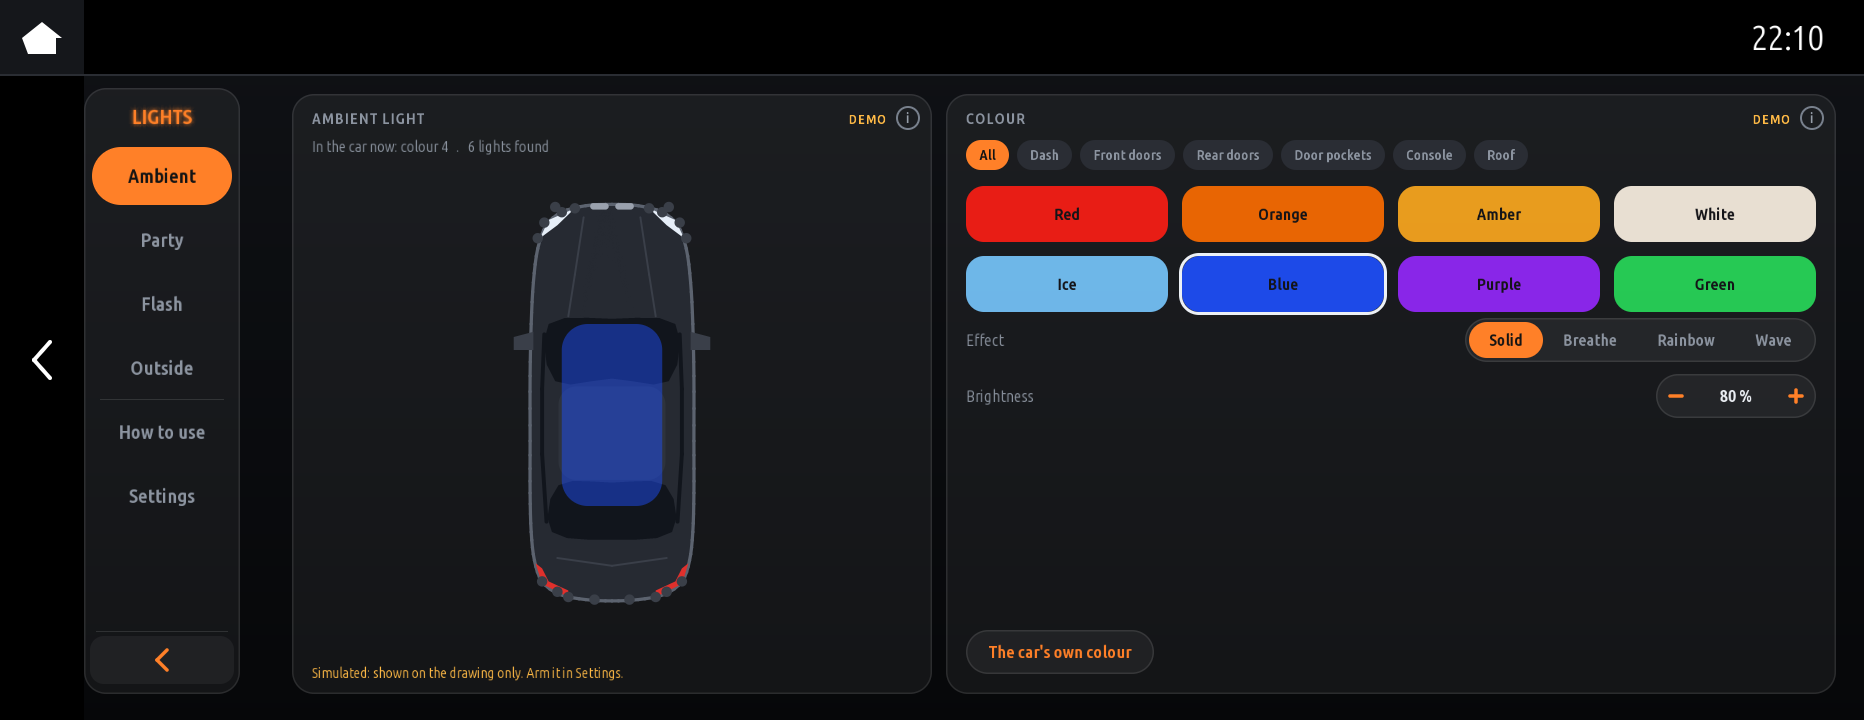
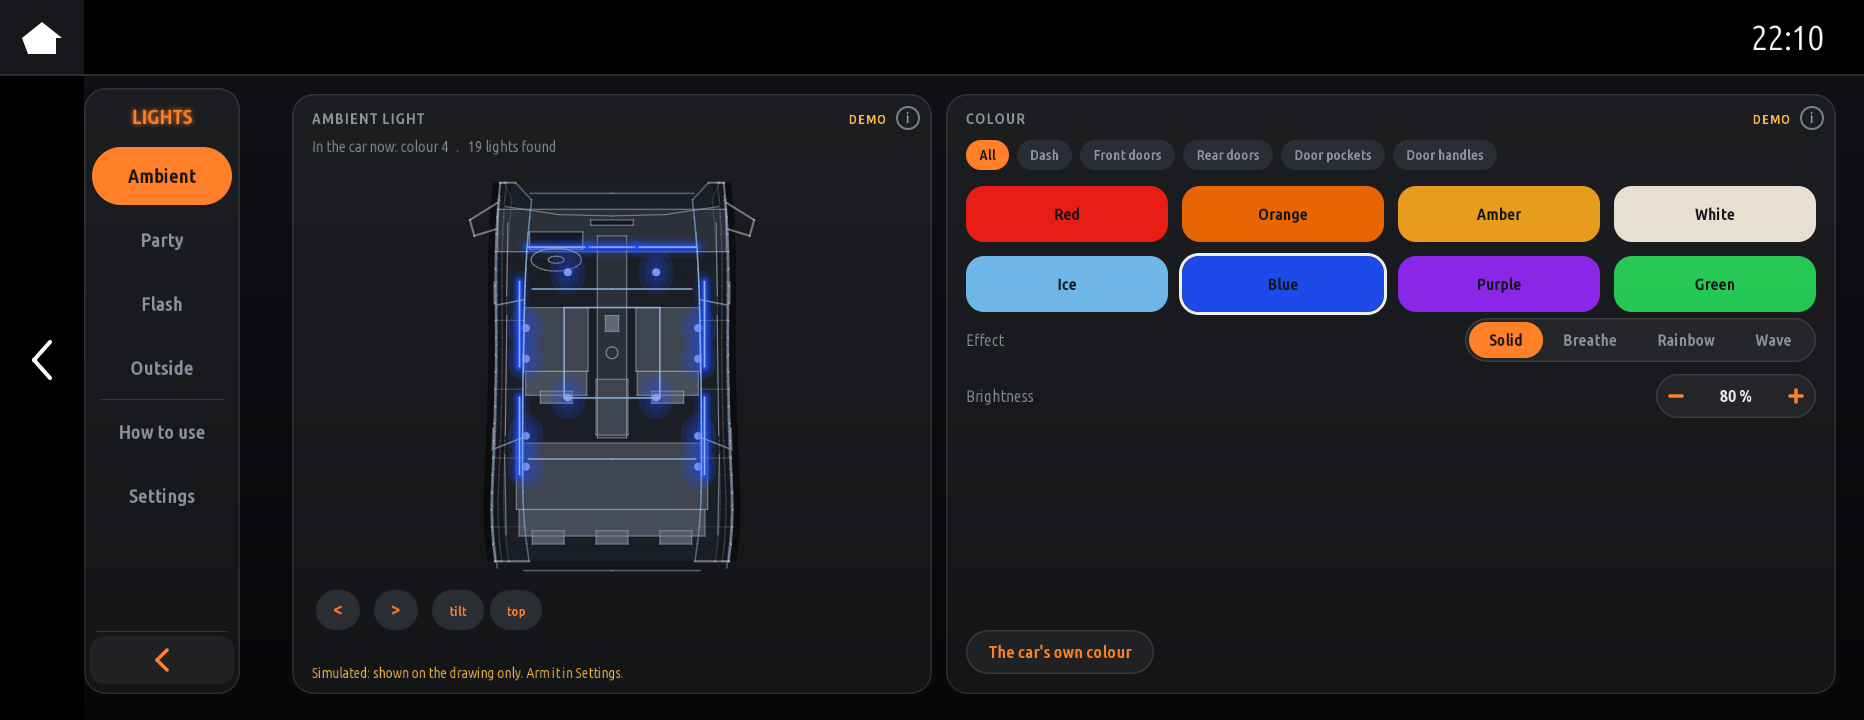
Lights 0.3: the cabin turnable with its lights, open door red
Ambient draws the cabin seen through (Ambient config's carview, MIT), every ambient
light at its place in the colour it shows, a region's own colour included; four
buttons turn it left and right, tilt it back and put it straight above again.
Open door red (Settings, on by default, armed only): the lights on an open door
blink red until it shuts, as the car's own warning does.

Changed region(s): [[0.1556, 0.2444, 0.4045, 0.8861], [0.7468, 0.2139, 0.809, 0.2444], [0.2489, 0.1833, 0.3112, 0.2139]]

diff --git a/apps/p96_lights/carview.js b/apps/p96_lights/carview.js
@@ -1,0 +1,192 @@
+// From idrive7-apps, apps/ambient_config/carview.js (MIT: Copyright (c) 2026 cauliflowermossgrape and contributors). See NOTICE.
+'use strict';
+/**
+ * carview.js - the car as a see-through line drawing after a G20 saloon, nose up, seen from straight above or tilted
+ * (a finger drags it: pitch leans the view back over the boot, roll turns it about its length to show a side), with its
+ * ambient lights glowing inside at their places. Only the cabin: from the windscreen's foot to the rear window's, with
+ * its dash, steering wheel, console, seats and door cards, so the lights' places read.
+ *
+ *   drawCarView(cv, t, box, lights, colourOf, opts)
+ *     box       { x, y, w, h }: the car fits its height, centred
+ *     lights    [{ part, x, y, x2, y2, fault }] (lin.js), x 0..1 across from the driver's side, y 0..1 from the dash
+ *     colourOf  (light) -> { rgb, bright } | null (null: the car's own colour, drawn dim grey)
+ *     opts      { rhd (the driver on the right), pitch (0 straight above .. MAX_PITCH, degrees), roll (-MAX_ROLL .. MAX_ROLL) }
+ *
+ * The car in metres: x forward, y to the left, z up, the middle at 0. Lines nearer the eye are brighter.
+ */
+const L = 2.3, W = 0.92;
+const MAX_PITCH = 55, MAX_ROLL = 40;
+
+// the plan's half width along the car (v = x / L: 1 nose .. -1 tail): a round nose, a slim waist at the doors,
+// the rear haunches a little wider, a squarer tail
+const plan = (x) => {
+    const v = x / L, p = v > 0 ? 3.2 : 5;
+    const base = Math.pow(Math.max(0, 1 - Math.pow(Math.abs(v), p)), 1 / p);
+    return W * base * (0.95 + 0.03 * Math.exp(-Math.pow((x + 1.25) / 0.45, 2)) - 0.015 * Math.exp(-Math.pow((x - 0.1) / 0.6, 2)) + 0.02 * (v > 0.6 ? 0 : 1));
+};
+// the side profile: the top of the body (a short bonnet, the windscreen, the roof, the fastback rear window, a short boot)
+const top = (x) => {
+    if (x > 2.2) return 0.74 - (x - 2.2) * 2.2;
+    if (x > 1.25) return 0.74 + 0.2 * (2.2 - x) / 0.95;
+    if (x > 0.5) return 0.94 + 0.46 * Math.sin((1.25 - x) / 0.75 * Math.PI / 2);
+    if (x > -0.75) return 1.4 - 0.02 * (0.5 - x) / 1.25;
+    if (x > -1.65) return 1.38 - 0.4 * Math.sin((-0.75 - x) / 0.9 * Math.PI / 2);
+    if (x > -2.2) return 0.98 - 0.02 * (-1.65 - x) / 0.55;
+    return 0.96 - (-2.2 - x) * 2.4;
+};
+const belt = (x) => Math.min(top(x) - 0.01, 0.9 + 0.04 * (L - x) / (2 * L));
+const inCabin = (x) => x < 1.25 && x > -1.65;
+// the roof's half width (the glass's top edge), the side glass's foot, over the cabin
+const roofW = (x) => plan(x) * (0.7 + 0.06 * Math.cos(((x + 0.2) / 1.45) * Math.PI / 2));
+
+/* The section across the car at x, from the left sill over the top to the right sill: [y, z]. */
+function section(x) {
+    const hw = plan(x), b = belt(x), t = top(x), tw = inCabin(x) ? Math.min(hw * 0.9, roofW(x)) : hw * 0.86;
+    const mid = (b + t) / 2;
+    return [[hw * 0.94, 0.28], [hw, 0.5], [hw * 0.995, b], [(hw + tw) / 2 * 1.03, mid], [tw, t], [tw * 0.4, t + 0.02], [0, t + 0.025],
+        [-tw * 0.4, t + 0.02], [-tw, t], [-(hw + tw) / 2 * 1.03, mid], [-hw * 0.995, b], [-hw, 0.5], [-hw * 0.94, 0.28]];
+}
+
+/* The cabin's ends: the windscreen's foot (the dash) and the rear window's; the bonnet and the boot are left out. */
+const XF = 1.3, XR = -1.55, XM = (XF + XR) / 2;
+const SEATS = [0.42, -0.42];                   // the front seats' middles across
+
+/** The cabin's lines: [[points], kind]. Its shell (body, glass) and what is inside (kind 'inside'). */
+function carLines() {
+    const out = [];
+    const N = 22, ST = [];
+    for (let i = 0; i <= N; i++) ST.push(XF - (XF - XR) * i / N);
+    const secs = ST.map((x) => section(x).map(([y, z]) => [x, y, z]));
+    for (let k = 0; k < secs[0].length; k++) {
+        // (the roof's middle lines left out: they would cross what is inside)
+        if (k >= 5 && k <= 7) continue;
+        const kind = k === 0 || k === 12 ? 'sill' : k === 2 || k === 10 ? 'body' : k === 4 || k === 8 ? 'glass' : 'mesh';
+        out.push([secs.map((sc) => sc[k]), kind]);
+    }
+    secs.forEach((pts, i) => { if (i % 4 === 0 && i > 0 && i < N) { out.push([pts.slice(0, 5), 'mesh']); out.push([pts.slice(8), 'mesh']); } });
+    out.push([secs[0].slice(0, 5), 'body'], [secs[0].slice(8), 'body'], [secs[N].slice(0, 5), 'body'], [secs[N].slice(8), 'body']);   // the cut ends, up to the glass
+    [1, -1].forEach((s) => {
+        const xs = []; for (let i = 0; i <= 30; i++) xs.push(1.2 - 2.8 * i / 30);
+        out.push([xs.map((x) => [x, s * plan(x) * 0.985, belt(x) + 0.03]), 'glass']);
+        out.push([[[0.42, s * roofW(0.42), top(0.42) - 0.01], [0.38, s * plan(0.38) * 0.98, belt(0.38) + 0.03]], 'glass']);   // B pillar
+        out.push([[[-0.62, s * roofW(-0.62), top(-0.62) - 0.01], [-0.7, s * plan(-0.7) * 0.98, belt(-0.7) + 0.03]], 'glass']);
+        [[1.15, 0.3], [0.05, 0.3], [-1.1, 0.32]].forEach(([x, z]) => out.push([[[x, s * plan(x) * 0.95, z], [x - 0.03, s * plan(x - 0.03), belt(x - 0.03)]], 'mesh']));
+        [0.55, -0.55].forEach((x) => out.push([[[x, s * plan(x) * 1.005, 0.82], [x - 0.16, s * plan(x - 0.16) * 1.005, 0.82]], 'body']));
+        out.push([[[1.15, s * plan(1.15), 0.96], [1.02, s * (plan(1.02) + 0.2), 0.98], [0.9, s * (plan(0.9) + 0.16), 0.98], [0.95, s * plan(0.95), 0.96]], 'body']);
+        // the door cards inside: the armrest along each door, its pull handle
+        out.push([[[1.0, s * plan(1.0) * 0.9, 0.66], [0.45, s * plan(0.45) * 0.9, 0.68]], 'inside']);
+        out.push([[[0.3, s * plan(0.3) * 0.9, 0.68], [-0.6, s * plan(-0.6) * 0.9, 0.68]], 'inside']);
+        out.push([[[-0.75, s * plan(-0.75) * 0.9, 0.68], [-1.35, s * plan(-1.35) * 0.88, 0.66]], 'inside']);
+    });
+    const ac = (x, z, k, kind) => out.push([[[x, k * plan(x), z], [x, 0, z + 0.03], [x, -k * plan(x), z]], kind]);
+    ac(1.22, top(1.22) + 0.01, 0.72, 'glass'); ac(0.5, top(0.5) - 0.01, 0.68, 'glass'); ac(-0.78, top(-0.78) - 0.01, 0.7, 'glass'); ac(-1.62, top(-1.62) + 0.01, 0.76, 'glass');
+    out.push([[[0.36, 0.36, 1.43], [0.36, -0.36, 1.43], [-0.32, -0.36, 1.42], [-0.32, 0.36, 1.42], [0.36, 0.36, 1.43]], 'glass']);
+    INSIDE.forEach(([pts]) => out.push([pts.concat([pts[0]]), 'inside']));
+    // the dash's top edge, the steering wheel and its hub, the iDrive knob
+    out.push([[[1.12, 0.8, 0.9], [1.06, 0.4, 0.93], [1.05, 0, 0.94], [1.06, -0.4, 0.93], [1.12, -0.8, 0.9]], 'inside']);
+    const ring = (cx2, cy2, cz, r, n, flat) => { const pts = []; for (let a = 0; a <= n; a++) { const q = a / n * Math.PI * 2; pts.push(flat ? [cx2 + r * Math.cos(q), cy2 + r * Math.sin(q), cz] : [cx2 + r * 0.45 * Math.sin(q), cy2 + r * Math.cos(q), cz + r * 0.9 * Math.sin(q)]); } return pts; };
+    out.push([ring(0.72, SEATS[0], 0.86, 0.19, 28), 'inside'], [ring(0.72, SEATS[0], 0.86, 0.06, 14), 'inside']);
+    out.push([ring(0.02, 0, 0.66, 0.045, 14, true), 'inside']);
+    return out;
+}
+/* What is inside, as flat shapes (filled, then outlined): [points, fill]. Seats: cushion, back, headrest. */
+const INSIDE = (() => {
+    const h = (x0, x1, y0, y1, z) => [[x0, y0, z], [x0, y1, z], [x1, y1, z], [x1, y0, z]];
+    const back = (x0, x1, y0, y1, z0, z1) => [[x0, y0, z0], [x0, y1, z0], [x1, y1, z1], [x1, y0, z1]];
+    const SEAT = [62, 68, 80, 255], BACK = [72, 78, 92, 255], HEAD = [82, 88, 102, 255], TRIM = [44, 48, 57, 255];
+    const out = [];
+    out.push([h(1.1, 0.78, 0.86, -0.86, 0.9), TRIM]);                                     // the dash's top
+    out.push([[[0.98, 0.16, 0.94], [0.98, -0.16, 0.94], [1.02, -0.16, 1.1], [1.02, 0.16, 1.1]], [20, 24, 30, 255]]);   // the centre screen
+    out.push([h(0.93, 0.8, SEATS[0] + 0.2, SEATS[0] - 0.2, 0.97), [20, 24, 30, 255]]);  // the instruments' hood
+    out.push([h(0.9, -0.62, 0.11, -0.11, 0.6), TRIM]);                                    // the console
+    out.push([h(-0.18, -0.6, 0.12, -0.12, 0.7), SEAT]);                                    // its armrest
+    out.push([h(0.3, 0.18, 0.05, -0.05, 0.64), [96, 104, 120, 255]]);                    // the gear selector
+    SEATS.forEach((y) => {
+        out.push([h(0.36, -0.12, y + 0.24, y - 0.24, 0.55), SEAT]);
+        out.push([back(-0.12, -0.3, y + 0.23, y - 0.23, 0.6, 1.15), BACK]);
+        out.push([h(-0.27, -0.36, y + 0.12, y - 0.12, 1.3), HEAD]);
+    });
+    out.push([h(-0.66, -1.16, 0.72, -0.72, 0.55), SEAT]);
+    out.push([back(-1.16, -1.36, 0.7, -0.7, 0.58, 1.05), BACK]);
+    [0.48, 0, -0.48].forEach((y) => out.push([h(-1.32, -1.42, y + 0.12, y - 0.12, 1.12), HEAD]));
+    return out;
+})();
+const LINES = carLines();
+
+/** The view: a point -> [screen x, screen y (down), depth (larger: nearer the eye)], before fitting. */
+function viewer(pitchDeg, rollDeg) {
+    const p = pitchDeg * Math.PI / 180, r = rollDeg * Math.PI / 180, cp = Math.cos(p), sp = Math.sin(p), cr = Math.cos(r), sr = Math.sin(r);
+    return ([x, y, z]) => {
+        const y1 = y * cr - z * sr, z1 = y * sr + z * cr;           // rolled about its length
+        return [-y1, -(x * cp + z1 * sp), z1 * cp - x * sp];          // leaned back over the boot
+    };
+}
+
+/** The cabin's light at fx across, fy from the dash, in metres: upper ones at the dash and the doors' tops, lower ones at the floor. */
+function lightPoint(fx, fy, part) {
+    return [1.25 - fy * 2.9, (0.5 - fx) * 2 * W * 0.86, part === 'upper' ? (fy < 0.2 ? 0.98 : 0.92) : 0.38];
+}
+
+const glow = (rgb, bright, a) => { const f = 0.25 + 0.75 * Math.max(0, Math.min(100, bright)) / 100; return [rgb[0], rgb[1], rgb[2], Math.round(255 * a * f)]; };
+const COL = { inside: [140, 148, 160], sill: [210, 216, 224], body: [236, 240, 246], edge: [236, 240, 246], mesh: [150, 158, 170], glass: [140, 182, 225], wheel: [190, 196, 204], lamp: [255, 255, 255], tail: [255, 50, 60] };
+const WID = { inside: 1.2, sill: 1.6, body: 2, edge: 1.8, mesh: 1, glass: 1.6, wheel: 1.6, lamp: 3, tail: 3 };
+
+function drawCarView(cv, t, box, lights, colourOf, opts) {
+    const o = opts || {};
+    const pitch = Math.max(0, Math.min(MAX_PITCH, o.pitch || 0)), roll = Math.max(-MAX_ROLL, Math.min(MAX_ROLL, o.roll || 0));
+    const pr = viewer(pitch, o.rhd ? -roll : roll);
+    // a scale that stays as the view turns: the car's length fits the box's height from straight above
+    const k = Math.min(box.h / ((XF - XR) * 1.12), box.w / (2 * W * 1.45)), cx = box.x + box.w / 2, cy = box.y + box.h / 2;
+    const S = (p) => { const q = pr([p[0] - XM, p[1], p[2]]); return [cx + (o.rhd ? -q[0] : q[0]) * k, cy + (q[1] + 0.55 * Math.sin(pitch * Math.PI / 180)) * k, q[2]]; };
+    // its shadow on the ground, then the body's mass: the plan at the belt filled dark
+    const strip = (f, z, c) => { for (let i = 0; i < 24; i++) { const xa = XF - (XF - XR) * i / 24, xb = XF - (XF - XR) * (i + 1) / 24; cv.quad([S([xa, f(xa), z]), S([xa, -f(xa), z]), S([xb, -f(xb), z]), S([xb, f(xb), z])].map((q) => [q[0], q[1]]), c); } };
+    strip((x) => plan(x) * 1.06, 0, [0, 0, 0, 120]);
+    strip(plan, 0.5, [22, 25, 30, 235]);
+    // the cabin's floor a shade lighter, what is inside filled, so the lights' places read against them
+    strip((x) => plan(x) * 0.9, 0.1, [27, 30, 36, 255]);
+    INSIDE.forEach(([pts, c]) => cv.quad(pts.map((q) => { const r = S(q); return [r[0], r[1]]; }), c));
+    const segs = [];
+    LINES.forEach(([pts, kind]) => { const q = pts.map(S); for (let i = 1; i < q.length; i++) segs.push([q[i - 1], q[i], kind]); });
+    let d0 = Infinity, d1 = -Infinity;
+    segs.forEach(([a, b]) => { d0 = Math.min(d0, a[2], b[2]); d1 = Math.max(d1, a[2], b[2]); });
+    segs.sort((a, b) => (a[0][2] + a[1][2]) - (b[0][2] + b[1][2]));
+    const near = (d) => (d - d0) / Math.max(1e-6, d1 - d0);
+    // the lights: an upper one a bright strip in a soft spread of its colour; a lower one a pool of light on the floor
+    // round it (where a footwell or a door pocket lights), the lamp itself a dot in the middle
+    const drawLights = () => {
+        const pool = (l, c) => {
+            const [x, y, z] = lightPoint(l.x, l.y, l.part), rgb = c.rgb, br = c.bright, r = 0.17;
+            for (let ring = 3; ring >= 1; ring--) {
+                const rr = r * ring / 3, pts = [];
+                for (let a = 0; a < 16; a++) { const q = a / 16 * Math.PI * 2; pts.push(S([x + rr * Math.cos(q), y + rr * 0.8 * Math.sin(q), 0.08])); }
+                for (let a = 1; a < 15; a++) cv.quad([pts[0], pts[a], pts[a + 1], pts[a + 1]].map((q) => [q[0], q[1]]), glow(rgb, br, 0.2));
+            }
+            return S([x, y, z]);
+        };
+        lights.forEach((l) => {
+            const c = colourOf(l), rgb = c ? c.rgb : [90, 96, 104], br = c ? c.bright : 30;
+            if (c && br <= 0) return;
+            if (l.x2 != null) {
+                const a = S(lightPoint(l.x, l.y, l.part)), b = S(lightPoint(l.x2, l.y2, l.part));
+                if (c) [[22, 0.12], [13, 0.26], [8, 0.5]].forEach(([w, al]) => cv.line(a[0], a[1], b[0], b[1], w, glow(rgb, br, al)));
+                cv.line(a[0], a[1], b[0], b[1], 4, glow(rgb, br, c ? 1 : 0.6));
+                if (c) cv.line(a[0], a[1], b[0], b[1], 1.5, glow(rgb.map((v) => Math.round(v + (255 - v) * 0.7)), br, 0.95));
+            } else {
+                const p = c ? pool(l, c) : S(lightPoint(l.x, l.y, l.part));
+                cv.circle(p[0], p[1], 4, glow(c ? rgb.map((v) => Math.round(v + (255 - v) * 0.5)) : rgb, br, c ? 1 : 0.6));
+            }
+            if (l.fault) { const p = S(lightPoint(l.x, l.y, l.part)); cv.circle(p[0], p[1], 6, t.warn || '#ffb000'); }
+        });
+    };
+    // the far lines, the lights inside, then the near lines over them (see-through)
+    let lit = false;
+    segs.forEach(([a, b, kind]) => {
+        const n = near((a[2] + b[2]) / 2);
+        if (!lit && n > 0.55) { drawLights(); lit = true; }
+        const c = COL[kind], al = kind === 'lamp' || kind === 'tail' ? 0.95 : kind === 'inside' ? 0.75 : (kind === 'mesh' ? 0.08 : 0.16) + (kind === 'mesh' ? 0.4 : 0.78) * n * n;
+        cv.line(a[0], a[1], b[0], b[1], WID[kind], [c[0], c[1], c[2], Math.round(255 * al)]);
+    });
+    if (!lit) drawLights();
+}
+
+module.exports = { drawCarView, MAX_PITCH, MAX_ROLL };

diff --git a/apps/p96_lights/main.js b/apps/p96_lights/main.js
@@ -77,7 +77,7 @@ mgu.run({
         const st = { page: 'main', tab: 0, topic: 0, settings: {}, status: 'WAIT', statusColor: 'dim', demo: false, now: t0 };
         st.report = Report.forApp(ctx);
         const presets = PR.load(path.join(ctx.dataDir, 'presets.json'));
-        const V = { region: 'all', regionColours: {}, paused: null, outsideWant: settings.get('outsideWant') || {}, live: { on: false, rows: [], note: null }, preset: 0, scene: { kind: 'solid', upper: { rgb: P.COLOURS[4][1], bright: 70 }, lower: { rgb: P.COLOURS[4][1], bright: 70 }, speed: 2 },
+        const V = { view: { pitch: 0, roll: 0 }, region: 'all', regionColours: {}, paused: null, outsideWant: settings.get('outsideWant') || {}, live: { on: false, rows: [], note: null }, preset: 0, scene: { kind: 'solid', upper: { rgb: P.COLOURS[4][1], bright: 70 }, lower: { rgb: P.COLOURS[4][1], bright: 70 }, speed: 2 },
             flash: { pattern: 'both', rate: 'normal' }, playAt: null };
 
         const sendScene = () => { if (armed()) link().then(() => { if (lights && !allowed('ambient')) { if (V.scene.own) lights.carColour(); else lights.show(V.scene); } }); };
@@ -99,6 +99,27 @@ mgu.run({
             V.regionColours = {}; V.scene = Object.assign({}, V.scene, { own: true }); V.ours = false;
             if (why) log.info('lights: stopped, ' + why);
         };
+        /*
+         * An open door: every light on that door blinks red (owner, 2026-11-27 00:40: as the car's own warning does on
+         * cars that have it), over whatever colour is on, until the door shuts. Setting Open door red; armed only.
+         */
+        const DOOR_FIELDS = { statusDoorSwitchDRD: /^Driver front door/, statusDoorSwitchPSD: /^Passenger front door/,
+            statusDoorSwitchDRDR: /^Driver rear door/, statusDoorSwitchPSDR: /^Passenger rear door/ };
+        let openDoors = [];
+        ctx.signals.watch('de.bmw.body.DoorsWindowsRoofMirrors', '1', {
+            CentralLockingSystemAndPanelStatus: (v) => {
+                const now2 = Object.keys(DOOR_FIELDS).filter((k) => v && (v[k] === 1 || /_OFFEN$/.test(String(v[k]))));
+                if (now2.join() === openDoors.join()) return;
+                const was = openDoors; openDoors = now2;
+                if (!armed() || val('doorRed') !== 'on') return;
+                link().then(() => {
+                    if (!lights) return;
+                    was.filter((k) => now2.indexOf(k) < 0).forEach((k) => lights.overlay('door|' + k, null));
+                    now2.forEach((k) => lights.overlay('door|' + k, (l) => DOOR_FIELDS[k].test((l && l.name) || ''), (ms) => ({ rgb: [255, 0, 0], bright: Math.floor(ms / 500) % 2 ? 0 : 100 })));
+                });
+            },
+        }, log).catch(() => {});
+
         /* ---------- the lamps as the car drives them now: reads only, while Lamps now is on ---------- */
         async function readLive() {
             if (!V.live.on || !armed() || !diag || st.tab !== 3) return;
@@ -123,6 +144,11 @@ mgu.run({
             set: (k, v) => { settings.set(k, v, 'user'); if (k === 'arm' && v === 'on') link(); if (k === 'arm' && v !== 'on') stopAll('disarmed'); },
             stopAll: () => stopAll('Stop all'),
             region: (k) => { V.region = k; },
+            // turning the car on the Ambient page: dr about its length (degrees), dp leaning back (-1 dp: straight above)
+            turn: (dr, dp) => {
+                V.view = { roll: Math.max(-P.MAX_ROLL, Math.min(P.MAX_ROLL, V.view.roll + dr)), pitch: dp < 0 ? 0 : Math.max(0, Math.min(P.MAX_PITCH, V.view.pitch + dp)) };
+                if (dp < 0) V.view.roll = 0;
+            },
             outside: (k, v) => { V.outsideWant = Object.assign({}, V.outsideWant, { [k]: v }); settings.set('outsideWant', V.outsideWant, 'user'); },
             live: () => { V.live.on = !V.live.on; V.live.rows = []; if (V.live.on) link(); },
             pause: () => {
@@ -178,7 +204,7 @@ mgu.run({
             return {
                 armed: armed(), moving: usingDemo() ? false : moving(), presets: presets, preset: V.preset, beat: beat, flash: V.flash,
                 ambient: { state: lights ? lights.state : null, n: lights ? lights.lights.length : 0, lights: lights ? lights.lights : [], scene: V.scene, ours: !!V.ours && armed() },
-                carAmbient: carAmbient, region: V.region, regionColours: V.regionColours, paused: V.paused, outsideWant: V.outsideWant, outside: {}, live: V.live,
+                carAmbient: carAmbient, view: V.view, region: V.region, regionColours: V.regionColours, paused: V.paused, outsideWant: V.outsideWant, outside: {}, live: V.live,
                 lamps: lamps ? { kind: lamps.kind, running: lamps.running, note: lamps.note } : { running: V.playAt != null && !armed() ? null : null },
             };
         }

diff --git a/apps/p96_lights/pages.js b/apps/p96_lights/pages.js
@@ -21,12 +21,16 @@ function ui() {
 const UI = ui();
 const E = (function () { try { return require('./garage_engine'); } catch (e) { return require('../../lib/engine'); } })();
 const PR = require('./presets');
+const { drawCarView, MAX_PITCH, MAX_ROLL } = require('./carview');
+const LIN = require('./lin');
 const C = UI.C, T = UI.CONTENT_TOP, L = UI.MARGIN, R = UI.W - UI.MARGIN;
 const lit = { literal: true };
 const TITLE = 'LIGHTS';
 const TABS = ['Ambient', 'Party', 'Flash', 'Outside'];
 
 const APP_ROWS = [
+    { key: 'doorRed', label: 'Open door red', hint: 'The lights on an open door blink red, as the car\'s own warning does', type: 'choice', default: 'on',
+        options: [['on', 'On'], ['off', 'Off']] },
     { key: 'arm', label: 'Light control', hint: 'Simulated: shown on the drawing only, nothing is sent to the car', type: 'choice', default: 'off',
         options: [['off', 'Simulated'], ['on', 'Armed']] },
 ];
@@ -120,10 +124,27 @@ function gateLine(v, what) {
 function pageAmbient(cv, v, st, t, act) {
     const lw = 640, s = (v.ambient && v.ambient.scene) || {}, up = s.upper || { rgb: COLOURS[4][1], bright: 70 };
     UI.card(cv, L, T, lw, UI.hh(), 'Ambient light', { info: INFO.ambient });
-    const k = Math.min(1.3, (UI.hh() - 90) / 320);
+    // the cabin seen through, every ambient light at its place in the colour it shows, turnable (owner, 2026-11-27
+    // 00:40: rotate the car and see where which colour is): the car's own lights when it listed them, else BMW's set
     const glow = s.kind === 'breathing' ? 0.35 + 0.65 * (0.5 - 0.5 * Math.cos(t * 1.6)) : 1;
-    const rgb = s.kind === 'rainbow' || s.kind === 'wave' ? hsv((t * 40) % 360) : up.rgb;
-    carLamps(cv, L + lw / 2, T + UI.hh() / 2 + 8, k, null, s.own ? null : [rgb[0], rgb[1], rgb[2], Math.round(150 * glow * up.bright / 100)]);
+    const shown = v.ambient && v.ambient.lights && v.ambient.lights.length ? v.ambient.lights : LIN.sample();
+    const rc = v.regionColours || {};
+    const colourOf = (light) => {
+        const own = rc[regionOf(light)];
+        if (own) return { rgb: own.rgb, bright: own.bright };
+        if (s.own) return null;
+        const rgb = s.kind === 'rainbow' || s.kind === 'wave' ? hsv((t * 40 + (light.y || 0) * 120) % 360) : up.rgb;
+        return { rgb: rgb, bright: Math.round(up.bright * glow) };
+    };
+    const view = v.view || { pitch: 0, roll: 0 };
+    drawCarView(cv, t, { x: L + 70, y: T + 66, w: lw - 140, h: UI.hh() - 176 }, shown, colourOf, view);
+    // turning: left and right about its length, back over the boot and up again
+    [['<', -1, 0], ['>', 1, 0], ['tilt', 0, 1], ['top', 0, -1]].forEach((b, i) => {
+        const bx = L + 24 + i * 58, by = T + UI.hh() - 104, w = b[0].length > 1 ? 52 : 44;
+        cv.roundRect(bx, by, w, 40, 20, '#2a2d34');
+        cv.text(b[0], bx + w / 2, by + 26, b[0].length > 1 ? 13 : 20, C.accent, { font: 'bold', align: 'center', literal: true });
+        if (cv.target) cv.target(bx - 4, by - 6, w + 8, 52, () => act.turn(b[1] * 20, b[2] * 25), 'lturn|' + i, 20);
+    });
     const g = gateLine(v, 'ambient');
     cv.text(g[0], L + 20, T + UI.hh() - 16, 14, g[1], lit);
     // what the car's own menu says now, and which lights the body controller has (read from the car)
@@ -302,4 +323,4 @@ function draw(cv, v, st, t, act) {
 const DEFAULTS = {};
 UI.DISPLAY_SETTINGS.concat(APP_ROWS, [E.DEMO_ROW]).forEach((r) => { DEFAULTS[r.key] = r.default; });
 
-module.exports = { regionOf, regionsOf, REGIONS, draw, TABS, TOPICS, APP_ROWS, PAGES, DEFAULTS, COLOURS, TITLE, carLamps, INFO, OUTSIDE };
+module.exports = { MAX_PITCH, MAX_ROLL, regionOf, regionsOf, REGIONS, draw, TABS, TOPICS, APP_ROWS, PAGES, DEFAULTS, COLOURS, TITLE, carLamps, INFO, OUTSIDE };

diff --git a/tools/lights_shots.js b/tools/lights_shots.js
@@ -29,9 +29,10 @@ function shot(name, set, t) {
     play(rec.words(), cv);
     fs.writeFileSync(path.join(out, name + '.png'), cv.png(9));
 }
-v.ambient.lights = [{ name: 'Dash line centre' }, { name: 'Driver front door line' }, { name: 'Driver rear door line' }, { name: 'Driver front door pocket' }, { name: 'Console line driver front' }, { name: 'Sunroof front left' }];
-v.carAmbient = 4; v.ambient.n = 6;
-shot('ambient', { tab: 0 }); shot('party', { tab: 1 }, 0.25); shot('flash', { tab: 2 }, 0.35);
+v.ambient.lights = require('../apps/p96_lights/lin').sample();
+v.carAmbient = 4; v.ambient.n = v.ambient.lights.length;
+shot('ambient', { tab: 0 });
+v.view = { pitch: 35, roll: -25 }; v.regionColours = { pockets: { rgb: [255, 30, 20], bright: 90 } }; shot('ambient-turned', { tab: 0 }, 1); v.view = null; v.regionColours = {}; shot('party', { tab: 1 }, 0.25); shot('flash', { tab: 2 }, 0.35);
 v.live = { on: true, rows: [['Left headlight, channel 1', '75 %', true], ['Left headlight, channel 9', '41 %', true], ['Right headlight, channel 1', '75 %', true], ['Body controller outputs on', '6', false]] };
 shot('outside', { tab: 3 });
 shot('help', { page: 'help', topic: 1 }, 1); shot('settings', { page: 'settings' });

diff --git a/apps/p96_lights/README.md b/apps/p96_lights/README.md
@@ -18,6 +18,7 @@ sequences from Paget96's Exterior Lights, PR #254). Not tried on a car as Lights
 | Page | Screenshot |
 |---|---|
 | Ambient | ![](../../docs/media/p96_lights/ambient.png) |
+| Ambient, the car turned, door pockets red | ![](../../docs/media/p96_lights/ambient-turned.png) |
 | Party | ![](../../docs/media/p96_lights/party.png) |
 | Flash | ![](../../docs/media/p96_lights/flash.png) |
 | Outside | ![](../../docs/media/p96_lights/outside.png) |
